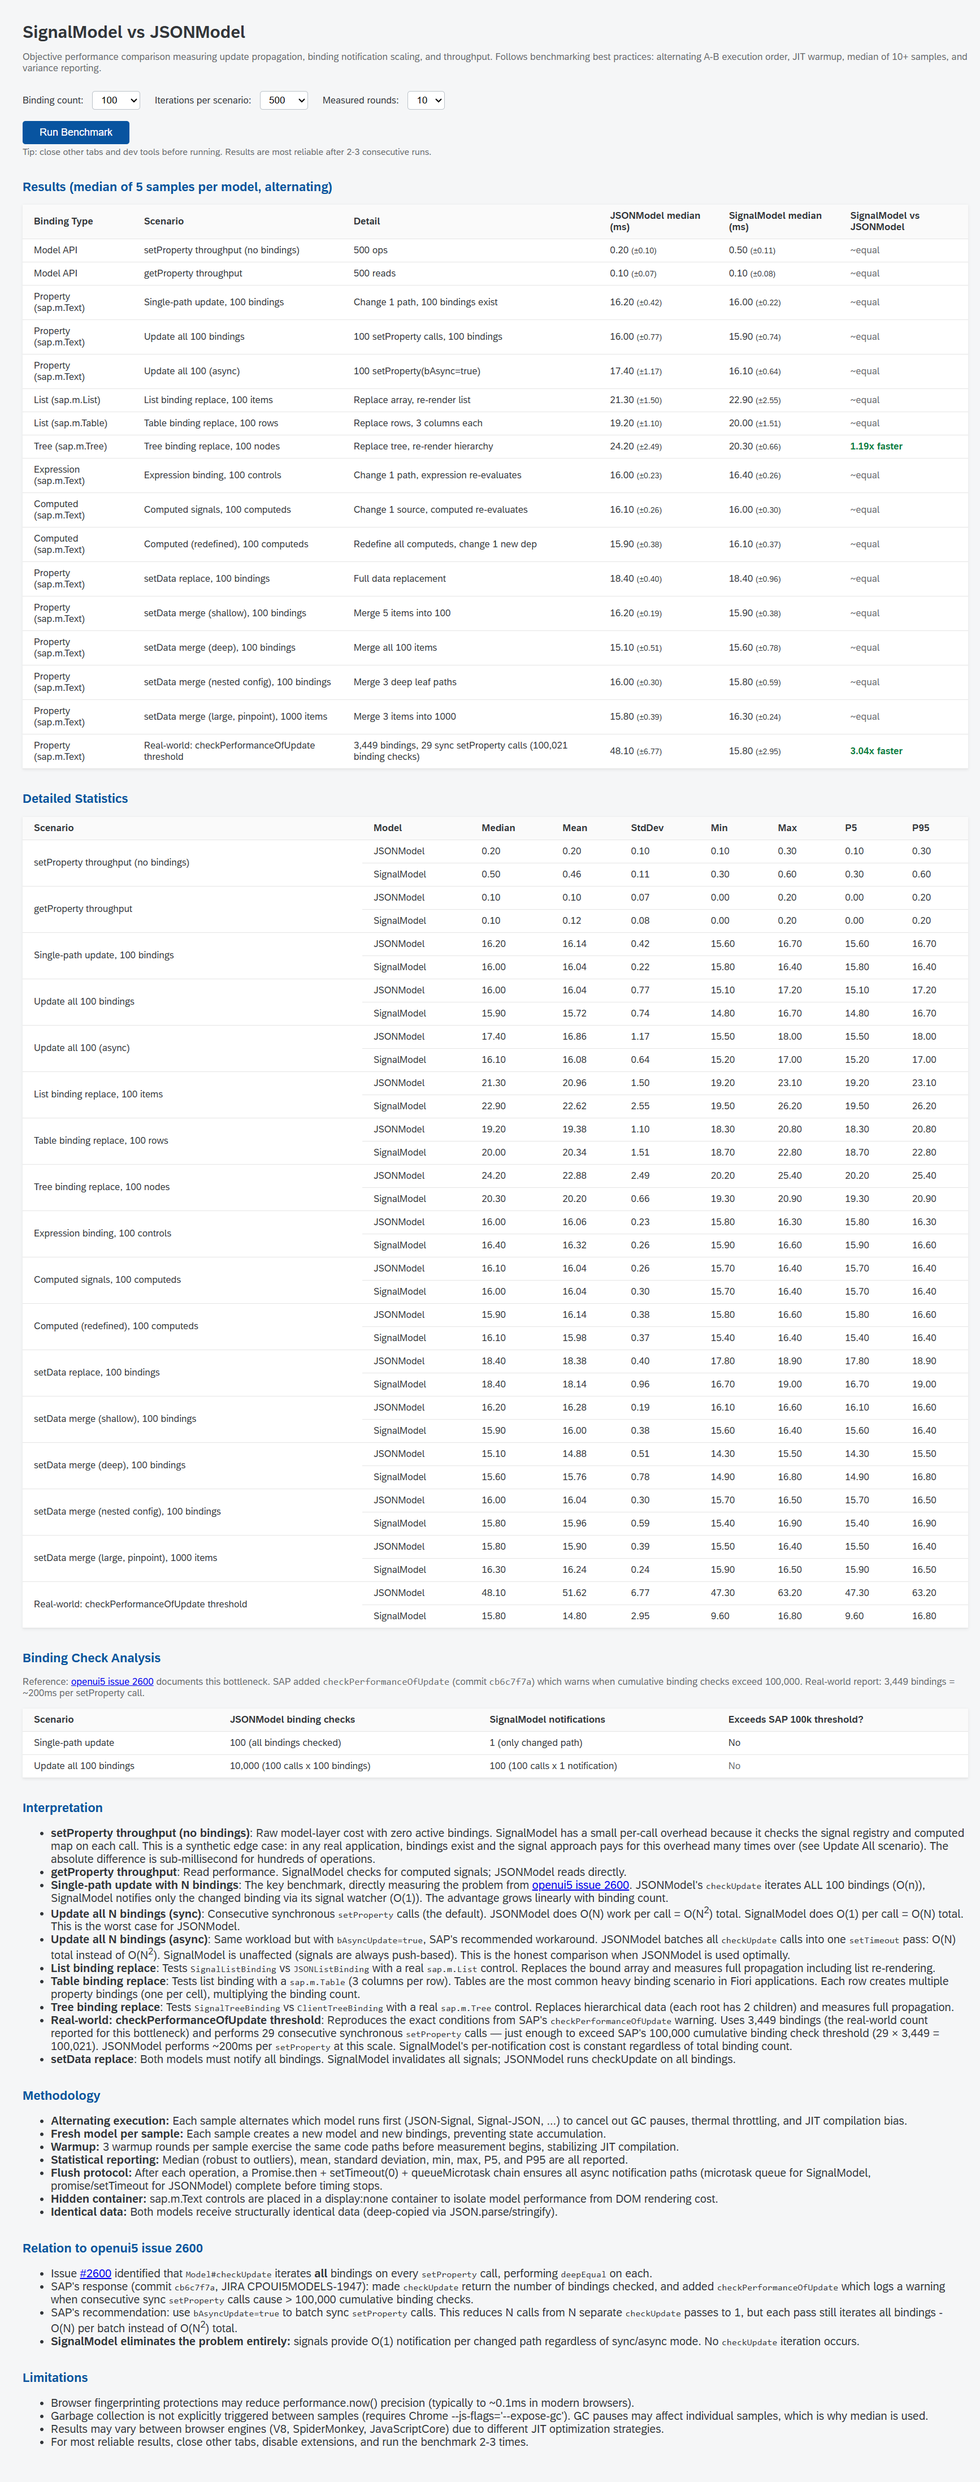
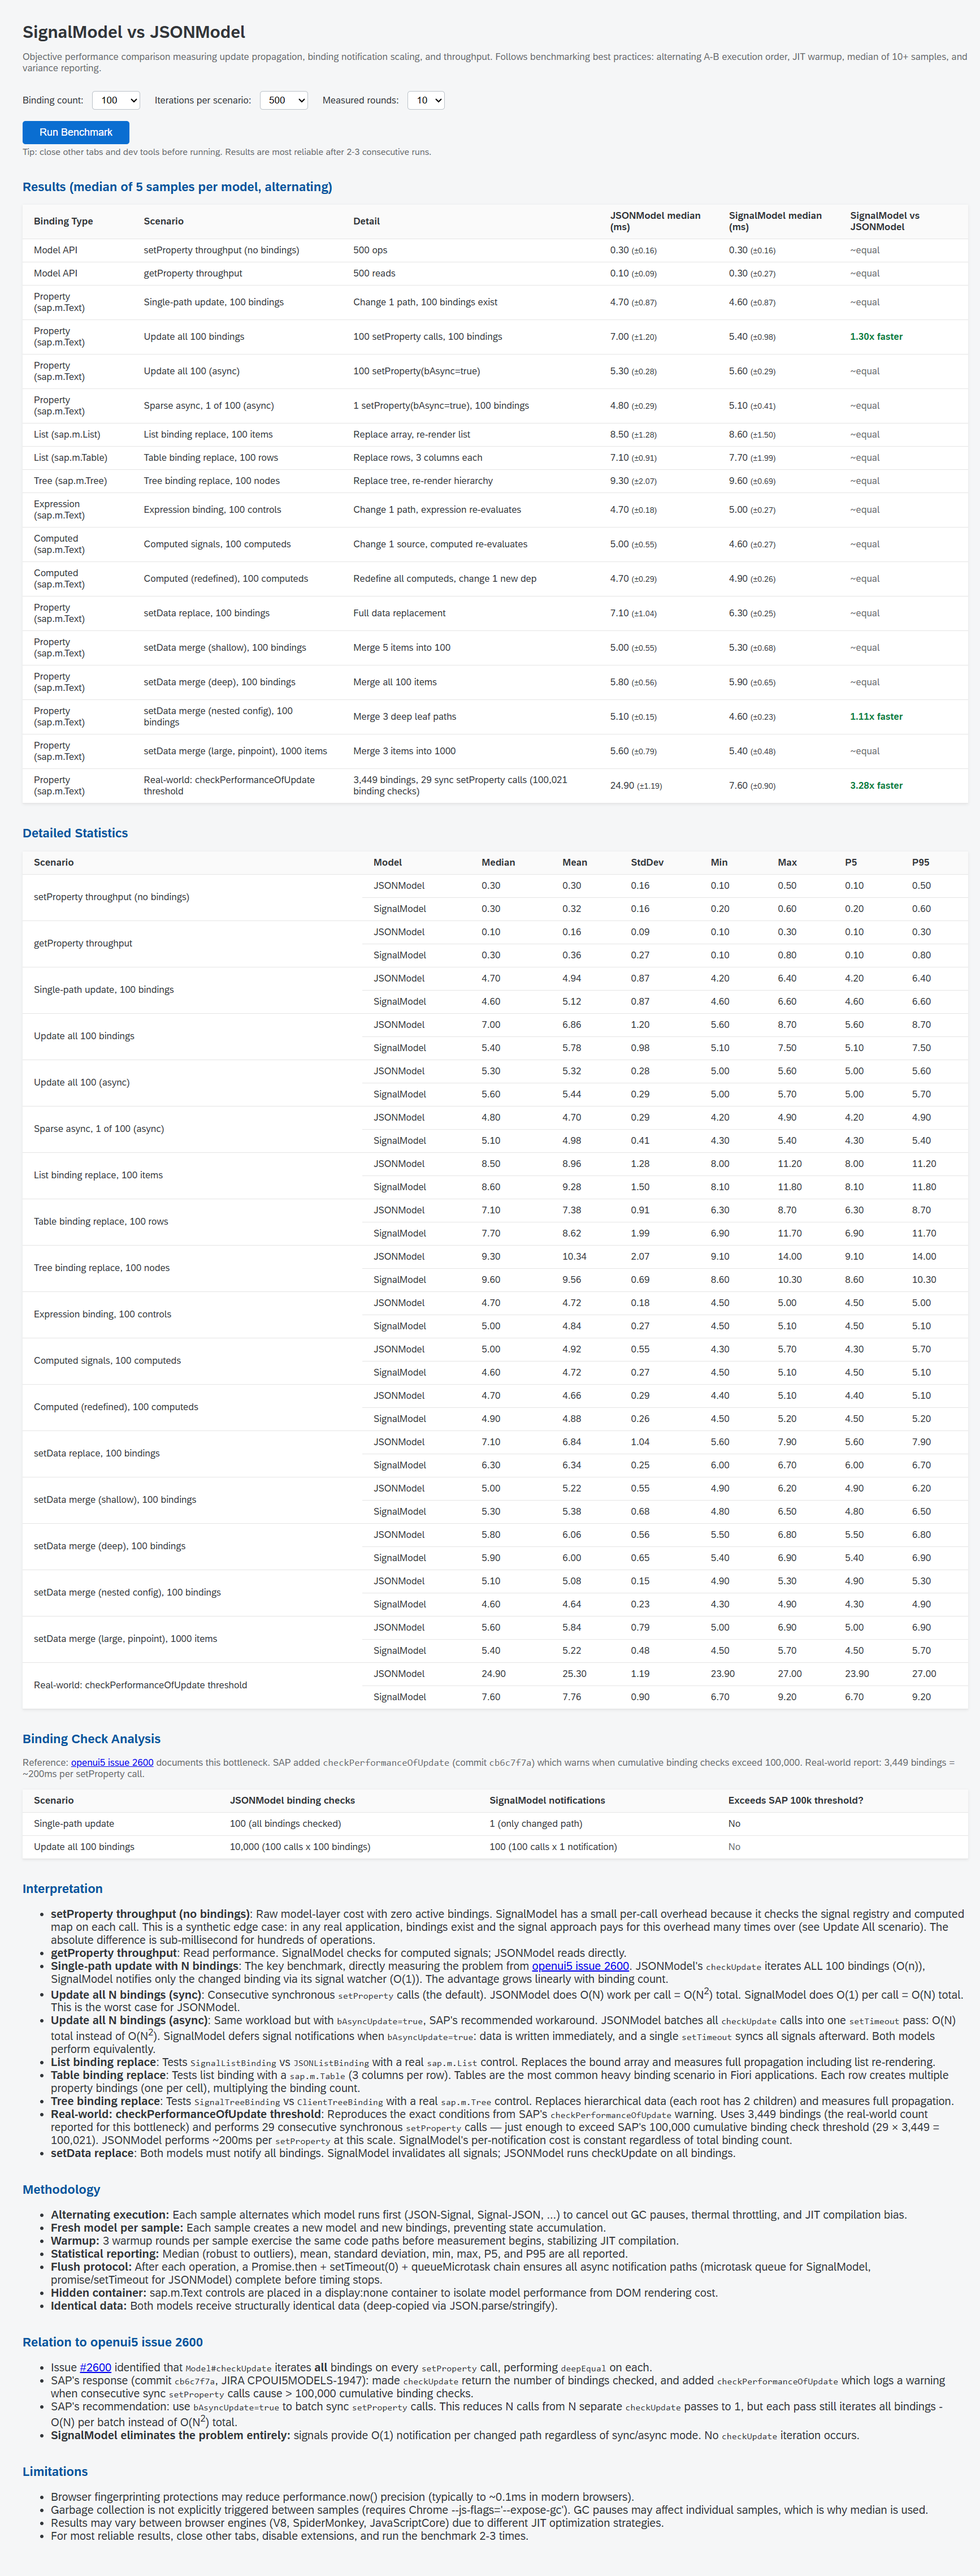
fix: comprehensive review — fix bugs, add tests, new benchmark scenario
FlushQueue: skip bindings destroyed mid-flush via watcher guard.
cancelFlush() is ineffective after the Map swap — the binding remains
in the detached batch. The !b.watcher guard prevents spurious
checkUpdate() calls on destroyed bindings.

Bindings: avoid double subscribe on creation. bindProperty/List/Tree
calls subscribe(), then the framework calls initialize() which called
subscribe() again. Now initialize() checks this.watcher before
re-subscribing, eliminating one wasted Watcher create/destroy cycle
per binding creation.

Imports: use import type for Context (4 files) and Signal (FlushQueue)
— these were already correctly elided by the transpiler but regular
imports are fragile if someone adds a runtime use.

Package: align with guard-router — types field points to auto-generated
dist/index.d.ts, add exports map, include README.md and LICENSE in
files.

Screenshots: regenerate all 4 benchmark images (100/500/1000/2000
bindings) reflecting current code with all fixes applied.

New benchmark scenario: sparse async (1 path changed out of N with
bAsyncUpdate=true).

3 new tests proving the bugs before fixing:
- FlushQueue skips bindings destroyed mid-flush
- FlushQueue continues working after mid-flush destroy
- initialize skips subscribe when already subscribed

diff --git a/packages/lib/test/qunit/SignalPropertyBinding.qunit.ts b/packages/lib/test/qunit/SignalPropertyBinding.qunit.ts
@@ -183,6 +183,70 @@ QUnit.module("SignalPropertyBinding", () => {
     }, 50);
   });
 
+  QUnit.test("FlushQueue skips bindings destroyed mid-flush (no spurious checkUpdate)", (assert) => {
+    const done = assert.async();
+    const model = new SignalModel({ name: "Alice" });
+    const binding1 = model.bindProperty("/name");
+    const binding2 = model.bindProperty("/name");
+    let checkUpdateCalledAfterDestroy = false;
+
+    // binding1's change handler fires during FlushQueue processing.
+    // It destroys binding2, then monkey-patches checkUpdate to detect
+    // whether FlushQueue still calls it on the destroyed binding.
+    binding1.attachChange(() => {
+      binding2.destroy();
+      (binding2 as unknown as Record<string, unknown>).checkUpdate = () => {
+        checkUpdateCalledAfterDestroy = true;
+      };
+    });
+
+    model.setProperty("/name", "Bob");
+
+    setTimeout(() => {
+      assert.strictEqual(
+        checkUpdateCalledAfterDestroy,
+        false,
+        "checkUpdate was not called on binding destroyed mid-flush",
+      );
+      model.destroy();
+      done();
+    }, 50);
+  });
+
+  QUnit.test("FlushQueue continues working after mid-flush destroy", (assert) => {
+    const done = assert.async();
+    const model = new SignalModel({ a: 1, b: 2 });
+    const bindingA = model.bindProperty("/a");
+    const bindingB = model.bindProperty("/b");
+    let bChangeCount = 0;
+
+    // Destroy bindingA during its own flush — bindingB should still work afterward
+    bindingA.attachChange(() => {
+      bindingA.destroy();
+    });
+
+    bindingB.attachChange(() => bChangeCount++);
+
+    model.setProperty("/a", 10);
+    model.setProperty("/b", 20);
+
+    setTimeout(() => {
+      assert.strictEqual(bChangeCount, 1, "surviving binding was notified");
+      assert.strictEqual(bindingB.getValue(), 20, "surviving binding has correct value");
+
+      // Verify FlushQueue is not stuck — subsequent changes still work
+      bChangeCount = 0;
+      model.setProperty("/b", 30);
+
+      setTimeout(() => {
+        assert.strictEqual(bChangeCount, 1, "FlushQueue still works after mid-flush destroy");
+        assert.strictEqual(bindingB.getValue(), 30, "subsequent value is correct");
+        model.destroy();
+        done();
+      }, 50);
+    }, 50);
+  });
+
   QUnit.test("destroy cleans up watcher", (assert) => {
     const model = new SignalModel({ name: "Alice" });
     const binding = model.bindProperty("/name");
@@ -193,6 +257,34 @@ QUnit.module("SignalPropertyBinding", () => {
       null,
       "watcher is null after destroy",
     );
+    model.destroy();
+  });
+
+  QUnit.test("initialize skips subscribe when binding is already subscribed", (assert) => {
+    const model = new SignalModel({ name: "Alice" });
+    const binding = model.bindProperty("/name");
+
+    // After bindProperty, the binding is already subscribed (watcher exists).
+    const watcherBefore = (binding as unknown as { watcher: unknown }).watcher;
+    assert.ok(watcherBefore, "watcher exists after bindProperty");
+
+    // Spy: count subscribe calls by wrapping the method
+    let subscribeCount = 0;
+    const origSubscribe = binding.subscribe.bind(binding);
+    (binding as unknown as Record<string, unknown>).subscribe = () => {
+      subscribeCount++;
+      origSubscribe();
+    };
+
+    // Simulate what the UI5 framework does after bindProperty returns
+    (binding as unknown as { initialize(): void }).initialize();
+
+    assert.strictEqual(subscribeCount, 0, "initialize did not re-subscribe");
+    assert.ok(
+      (binding as unknown as { watcher: unknown }).watcher,
+      "watcher still exists after initialize",
+    );
+    assert.strictEqual(binding.getValue(), "Alice", "value is correct after initialize");
     model.destroy();
   });
 

diff --git a/packages/lib/src/FlushQueue.ts b/packages/lib/src/FlushQueue.ts
@@ -1,5 +1,5 @@
 import Log from "sap/base/Log";
-import { Signal } from "signal-polyfill";
+import type { Signal } from "signal-polyfill";
 
 /**
  * Interface for bindings that participate in microtask-batched flush.
@@ -40,8 +40,12 @@ export function scheduleFlush(
       const batch = pendingUpdates;
       pendingUpdates = new Map();
       for (const [b, s] of batch) {
+        // Skip bindings destroyed/unsubscribed since they were queued.
+        // cancelFlush() operates on the live pendingUpdates map, but after
+        // the swap the binding is in the detached batch — unreachable by cancel.
+        if (!b.watcher) continue;
         s.get();
-        b.watcher?.watch();
+        b.watcher.watch();
         try {
           b.checkUpdate();
         } catch (e) {

diff --git a/packages/lib/src/SignalListBinding.ts b/packages/lib/src/SignalListBinding.ts
@@ -1,6 +1,6 @@
 import ClientListBinding from "sap/ui/model/ClientListBinding";
 import ChangeReason from "sap/ui/model/ChangeReason";
-import Context from "sap/ui/model/Context";
+import type Context from "sap/ui/model/Context";
 import { Signal } from "signal-polyfill";
 import type SignalModel from "./SignalModel";
 import { scheduleFlush, cancelFlush } from "./FlushQueue";
@@ -115,7 +115,9 @@ export default class SignalListBinding extends ClientListBinding {
 
   override initialize(): this {
     this.update();
-    this.subscribe();
+    if (!this.watcher) {
+      this.subscribe();
+    }
     // Fire initial change so controls (e.g. sap.m.List) populate their aggregation
     asInternal(this)._fireChange({ reason: ChangeReason.Change });
     return this;

diff --git a/packages/lib/src/SignalTreeBinding.ts b/packages/lib/src/SignalTreeBinding.ts
@@ -1,6 +1,6 @@
 import ClientTreeBinding from "sap/ui/model/ClientTreeBinding";
 import ChangeReason from "sap/ui/model/ChangeReason";
-import Context from "sap/ui/model/Context";
+import type Context from "sap/ui/model/Context";
 import { Signal } from "signal-polyfill";
 import type SignalModel from "./SignalModel";
 import { scheduleFlush, cancelFlush } from "./FlushQueue";
@@ -82,7 +82,9 @@ export default class SignalTreeBinding extends ClientTreeBinding {
   }
 
   override initialize(): this {
-    this.subscribe();
+    if (!this.watcher) {
+      this.subscribe();
+    }
     // Fire initial change so controls (e.g. sap.m.Tree) populate their aggregation
     asInternal(this)._fireChange({ reason: ChangeReason.Change });
     return this;

diff --git a/packages/lib/src/SignalPropertyBinding.ts b/packages/lib/src/SignalPropertyBinding.ts
@@ -1,6 +1,6 @@
 import ClientPropertyBinding from "sap/ui/model/ClientPropertyBinding";
 import ChangeReason from "sap/ui/model/ChangeReason";
-import Context from "sap/ui/model/Context";
+import type Context from "sap/ui/model/Context";
 import { Signal } from "signal-polyfill";
 import type SignalModel from "./SignalModel";
 import { scheduleFlush, cancelFlush } from "./FlushQueue";
@@ -114,7 +114,9 @@ export default class SignalPropertyBinding extends ClientPropertyBinding {
   }
 
   initialize(): this {
-    this.subscribe();
+    if (!this.watcher) {
+      this.subscribe();
+    }
     this.checkUpdate(true);
     return this;
   }

diff --git a/packages/lib/src/SignalModel.ts b/packages/lib/src/SignalModel.ts
@@ -1,5 +1,5 @@
 import ClientModel from "sap/ui/model/ClientModel";
-import Context from "sap/ui/model/Context";
+import type Context from "sap/ui/model/Context";
 import SignalRegistry from "./SignalRegistry";
 import SignalPropertyBinding from "./SignalPropertyBinding";
 import SignalListBinding from "./SignalListBinding";
